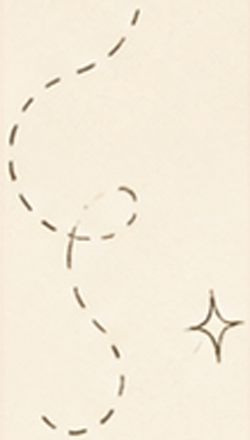
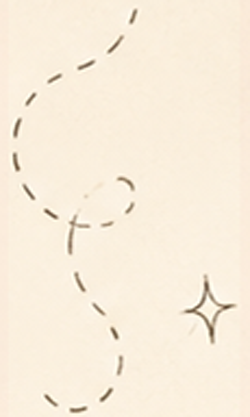
style: squiggle rides at top -32%

diff --git a/styles.css b/styles.css
@@ -217,7 +217,7 @@ section { padding: 96px 0; }
 .beat-squiggle { position: relative; }
 .beat-squiggle-art {
   position: absolute;
-  top: 20%;
+  top: -32%;
   left: -30px;
   width: 95px; height: auto;
   pointer-events: none;
